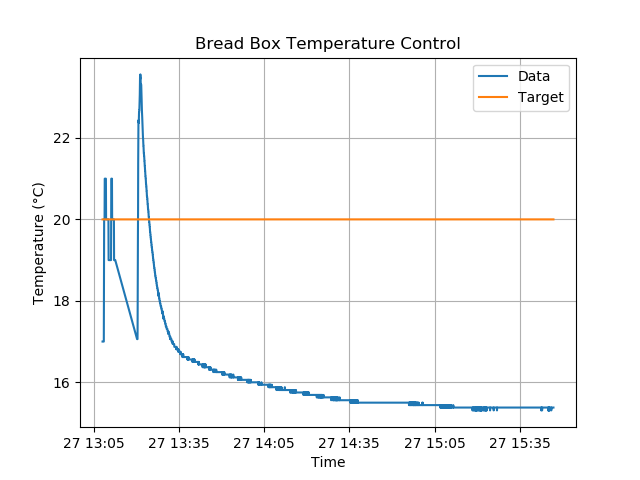
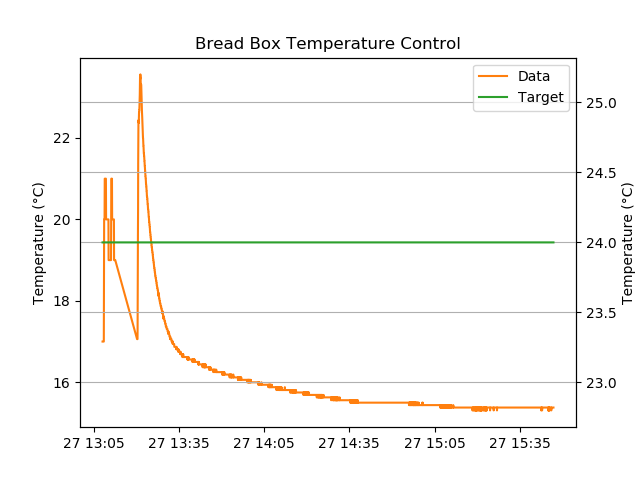
Updating graph generation to include seperate run stats

diff --git a/home/templates/home/index.html b/home/templates/home/index.html
@@ -16,6 +16,7 @@
         <div class="content container">
             {% load static %}
             <img src="{% static "home/graph.png" %}" alt="My image"/>
+            <img src="{% static "home/stddev.png" %}" alt="My image"/>
             <div class="row">
                 <div class="col-md-8">
                     <table>

diff --git a/home/views.py b/home/views.py
@@ -10,6 +10,8 @@ import PIL, PIL.Image, io
 import numpy as np
 import pandas
 import datetime
+import sqlite3
+import matplotlib.pyplot as plt
 
 def generate_graph_image(data):
     # Line format [["title", "file_name"], [x, y, "x_label", "y_label", "line_label"], etc]
@@ -17,17 +19,25 @@ def generate_graph_image(data):
 
     lines = []
     names = []
+
+    fig, ax1 = plt.subplots()
+    plot_axis = {"1": ax1}
+    colour_options = ['C0', 'C1', 'C2', 'C3', 'C4']
+    if len(data) > 2:
+        for i in range(2, len(data)):
+            ax = ax1.twinx()
+            plot_axis[str(i)] = ax
     for i in range(1, len(data)):
-        line, = plot(data[i][0], data[i][1])
+        ax = plot_axis[str(i)]
+        line, = ax.plot(data[i][0], data[i][1], colour_options[i])
         lines.append(line)
         names.append(data[i][4])
+        ax.set_ylabel(data[i][3])
 
-    xlabel(data[1][2])
-    ylabel(data[1][3])
+    ax.set_xlabel(data[1][2])
     legend(lines, names)
     title(data[0][0])
     grid(True)
-
     # Store image in a string buffer
     buffer = io.BytesIO()
     canvas = pylab.get_current_fig_manager().canvas
@@ -62,8 +72,6 @@ def calculate_total_stats():
     temps = Temperature.objects.values_list('temp', flat=True)
     std_dev = np.std(temps)
     mean = np.mean(temps)
-    columns = ["rec_date", "temp"]
-    import sqlite3
     conn = sqlite3.connect("db.sqlite3")
     dataset = pandas.read_sql_query("SELECT * from home_temperature", conn)
     print("DATASET")
@@ -86,21 +94,24 @@ def get_separate_runs():
 def calculate_running_stats():
     runs = get_separate_runs()
     std_devs = []
+    avgs = []
     for run in runs:
         n = 1
         std_dev = np.std(run)
+        avg = np.average(run)
         std_devs.append(std_dev)
-    return std_devs
+        avgs.append(avg)
+    return std_devs, avgs
 
 def generate_stddev_graph(request):
-    std_devs = calculate_running_stats()
+    std_devs, avgs = calculate_running_stats()
     y = []
     n = 1
     for std_dev in std_devs:
         y.append(n)
         n += 1
 
-    data = [['Bread Box Temperature Control', 'stddev'], [y, std_devs, 'Run no.','Std dev', "Data"]]
+    data = [['Bread Box Temperature Control', 'stddev'], [y, std_devs, 'Run no.','Std dev', "Std dev"], [y, avgs, 'Run no.','Average', "Average"]]
     generate_graph_image(data)
 
 def index(request):
